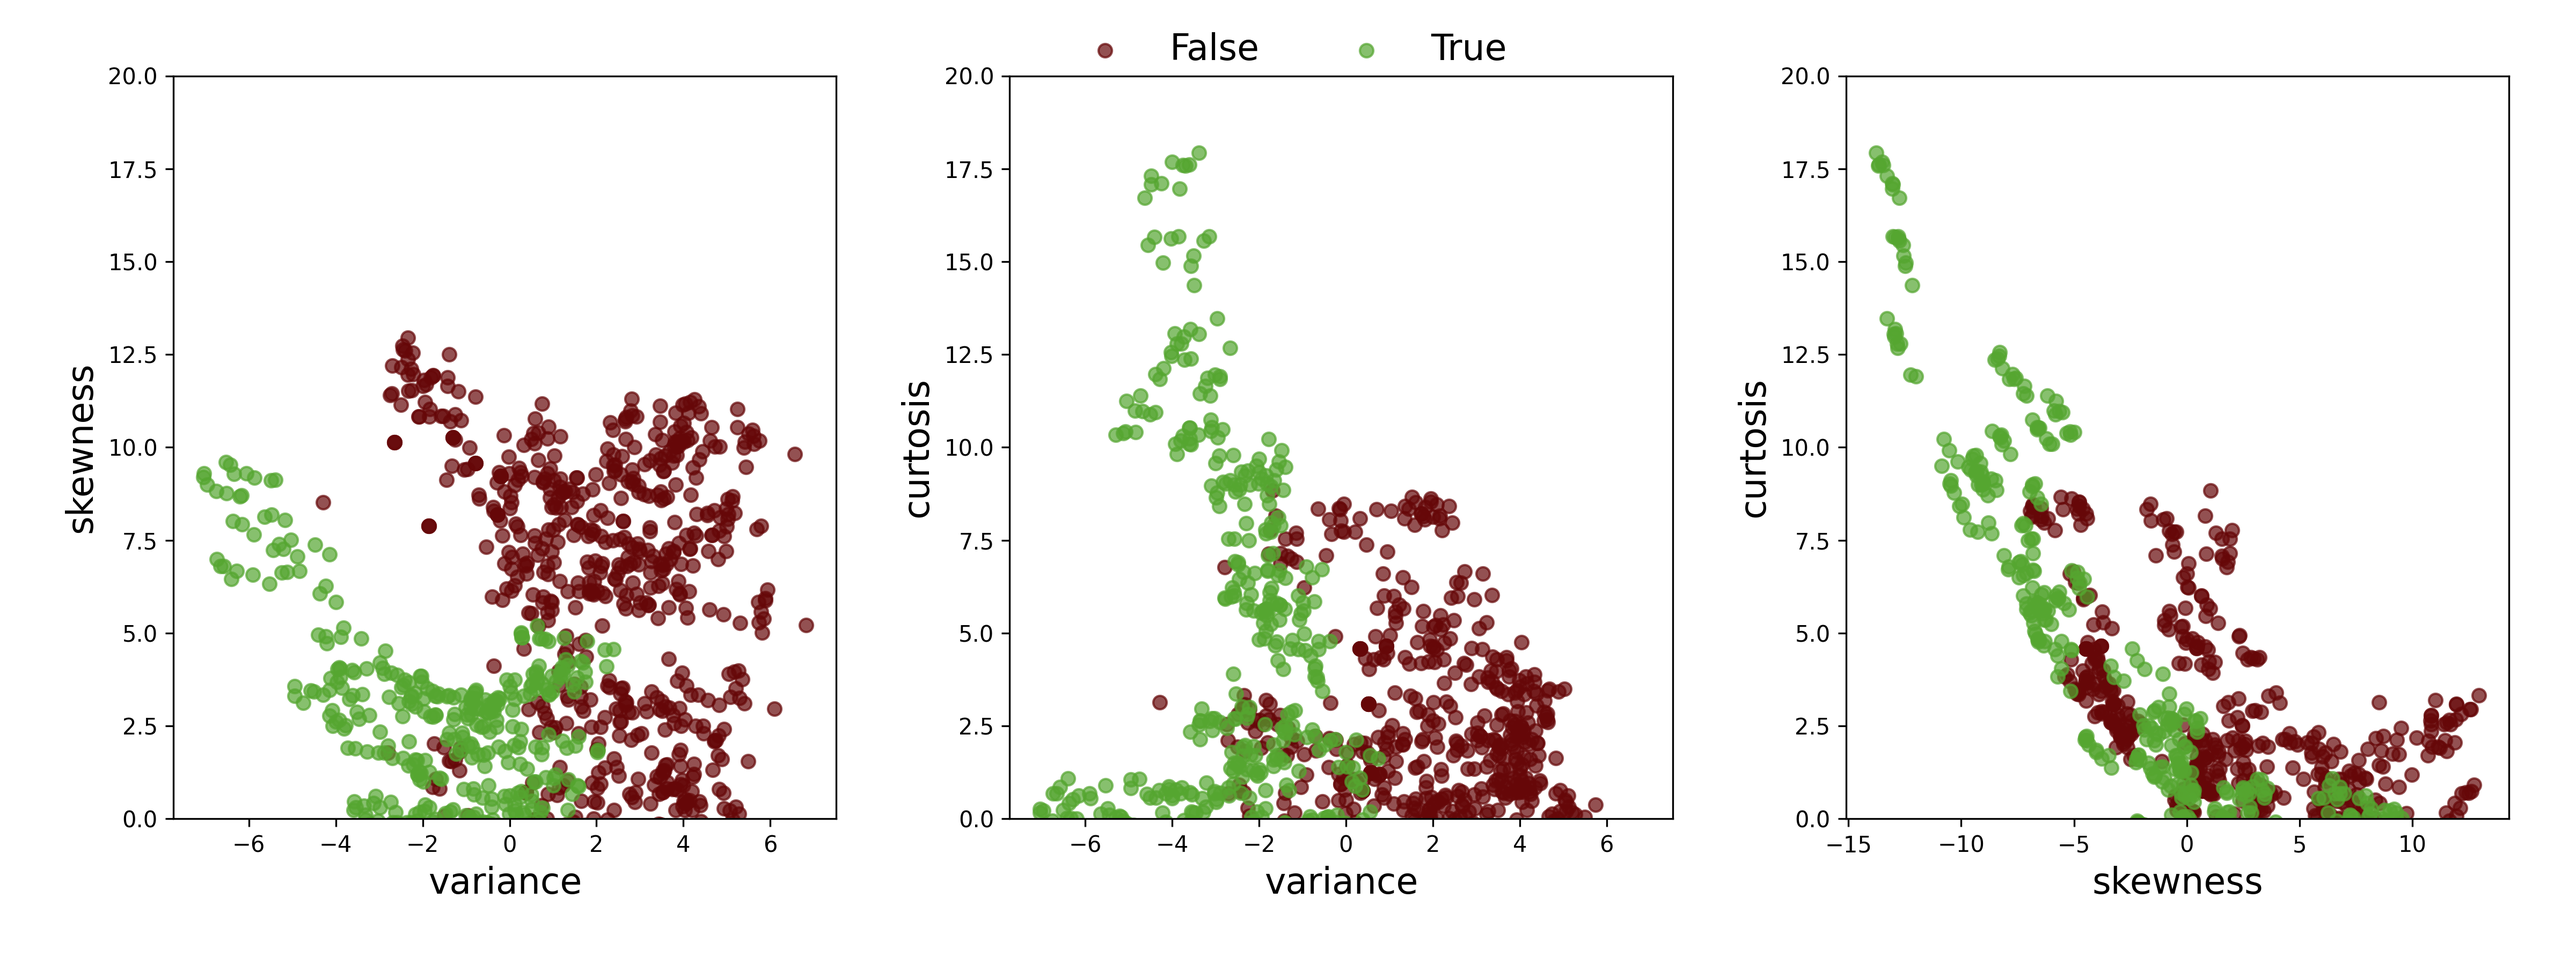
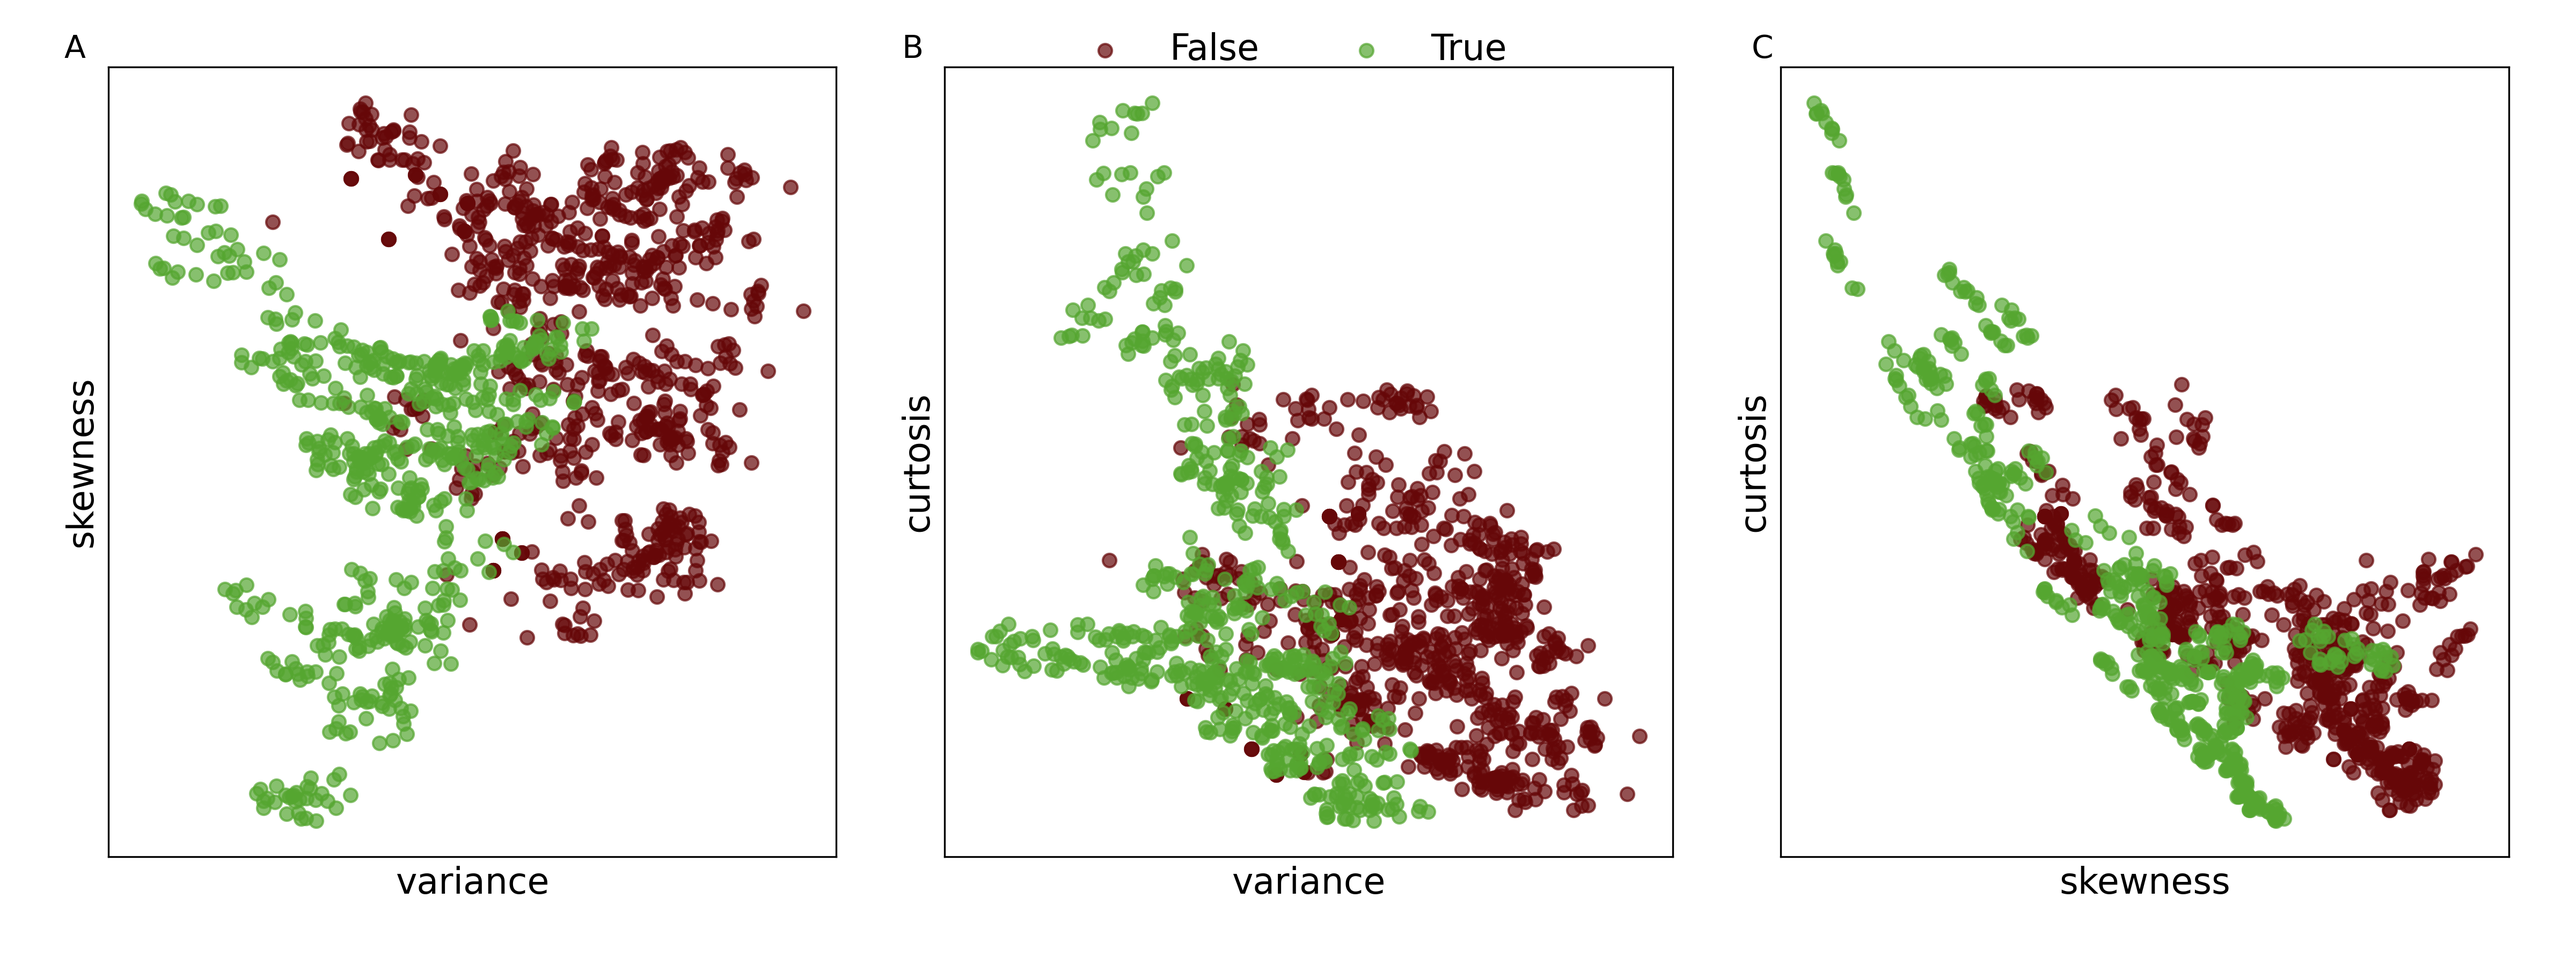
Add ABC to graphics

diff --git a/Patrones/Tarea_05/Scripts/Problema_04/plot_2D.py b/Patrones/Tarea_05/Scripts/Problema_04/plot_2D.py
@@ -5,35 +5,45 @@ import matplotlib.pyplot as plt
 params = get_params()
 params["file graphics"] = "plot_2D.png"
 dataset = dataset_model(params)
-fig, axs = plt.subplots(1, 3,
-                        figsize=(16, 6))
+fig, axs = plt.subplots(1, 3, figsize=(16, 6))
 for label, color in params["type cash"].items():
     dataset.select_cash_type(label)
     for ax, data_types in zip(axs, params["pair plots"]):
         data_type1, data_type2 = data_types
-        ax.set_ylim(0, 20)
-        ax.set_xlabel(data_type1,
-                      fontsize=16)
-        ax.set_ylabel(data_type2,
-                      fontsize=16)
+        ax.set_xticks([])
+        ax.set_yticks([])
+        ax.set_xlabel(data_type1, fontsize=16)
+        ax.set_ylabel(data_type2, fontsize=16)
         data_1 = dataset.data_select[data_type1]
         data_2 = dataset.data_select[data_type2]
-        ax.scatter(data_1,
-                   data_2,
-                   alpha=0.7,
-                   label=label,
-                   color=color,
-                   )
+        ax.scatter(
+            data_1,
+            data_2,
+            alpha=0.7,
+            label=label,
+            color=color,
+        )
 handles, labels = ax.get_legend_handles_labels()
-fig.legend(handles,
-           labels,
-           frameon=False,
-           ncol=2,
-           fontsize=16,
-           loc='upper center',
-           )
+fig.legend(
+    handles,
+    labels,
+    frameon=False,
+    ncol=2,
+    fontsize=16,
+    loc='upper center',
+)
+fig.text(0.025,
+         0.94,
+         "A",
+         fontsize=14)
+fig.text(0.35,
+         0.94,
+         "B",
+         fontsize=14)
+fig.text(0.68,
+         0.94,
+         "C",
+         fontsize=14)
 plt.tight_layout(pad=3)
-filename = join(params["path graphics"],
-                params["file graphics"])
-plt.savefig(filename,
-            dpi=300)
+filename = join(params["path graphics"], params["file graphics"])
+plt.savefig(filename, dpi=300)

diff --git a/Patrones/Tarea_05/Scripts/Problema_04/Graphics_pca_2D.py b/Patrones/Tarea_05/Scripts/Problema_04/Graphics_pca_2D.py
@@ -37,6 +37,18 @@ fig.legend(handles,
            fontsize=16,
            loc='upper center',
            )
+fig.text(0.025,
+         0.94,
+         "A",
+         fontsize=14)
+fig.text(0.35,
+         0.94,
+         "B",
+         fontsize=14)
+fig.text(0.68,
+         0.94,
+         "C",
+         fontsize=14)
 plt.tight_layout(pad=3)
 filename = join(params["path graphics"],
                 params["file graphics"])

diff --git a/Patrones/Tarea_05/Scripts/Problema_04/SVM_PCA_3D.py b/Patrones/Tarea_05/Scripts/Problema_04/SVM_PCA_3D.py
@@ -1,8 +1,8 @@
-from Modules.params import get_colors_array, get_params
 from sklearn.model_selection import train_test_split
 from Modules.dataset import dataset_model, join
 from sklearn.metrics import accuracy_score
 from pandas import DataFrame, read_csv
+from Modules.params import get_params
 from Modules.svm import SVM_model
 
 # Lectura de los parametros
